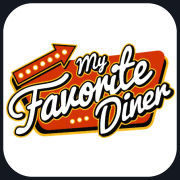
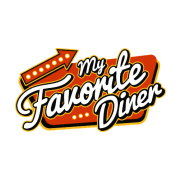
Fix writing a review on a phone, and add the diner's social links
Review form on mobile
  The report was that a review could not be written on a phone. Tapping the
  review box opens the on-screen keyboard over the lower half of the
  screen, and the field that raised it is usually what ends up underneath
  it — the sheet scrolls, so nothing is broken exactly, but it reads as a
  box that cannot be typed into. Both fields now scroll themselves into
  view on focus, after the keyboard's own animation has settled.

  Also took the sticky send button back out. It was added an hour ago to
  keep "Send my review" reachable in a form taller than the sheet, but it
  floated over the review box while you were still writing in it — a worse
  problem than the one it solved. The textarea gives back the height on
  small screens instead.

  Kept from that change: tap targets. The stars were 38px square, under
  every touch guideline, and they are the first thing the sheet asks for;
  they are 48px now, with the close button at 44px.

Facebook and Instagram
  Added instagram_url alongside the existing facebook_url — settings key,
  admin field, and schema.org sameAs, which is what lets the profiles show
  up beside the search result. Both accounts now appear as icons in the
  footer, and only when they have been filled in.

  The two links are set as defaults so they work immediately, with the
  tracking parameters trimmed off: those identify whoever shared the link,
  not the page. Both remain editable in Admin -> Settings.

Favicon
[…]

diff --git a/app/globals.css b/app/globals.css
@@ -1143,6 +1143,23 @@
   .foot ul{list-style:none;display:grid;gap:11px}
   .foot li,.foot li a{font-size:14.5px;color:var(--text-soft);transition:color .25s}
   .foot li a:hover{color:var(--yellow)}
+/* ---- the diner's own accounts, in the footer ---- */
+  .social{display:flex;gap:12px;margin-top:20px;list-style:none;padding:0}
+  .social a{
+    display:flex;align-items:center;justify-content:center;
+    width:44px;height:44px;border-radius:50%;
+    border:2px solid rgba(255,244,224,.4);
+    transition:background .2s,border-color .2s,transform .2s var(--ease);
+  }
+  .social svg{
+    width:20px;height:20px;fill:none;
+    stroke:var(--text);stroke-width:1.9;
+    stroke-linecap:round;stroke-linejoin:round;
+  }
+  .social a:hover{background:var(--red);border-color:var(--red);transform:translateY(-2px)}
+  .social a:hover svg{stroke:#fff}
+  .social a:focus-visible{outline:3px solid var(--yellow);outline-offset:3px}
+
   .foot-bot{border-top:1px solid rgba(255,244,224,.12);padding:22px 0;display:flex;
     justify-content:space-between;gap:14px;flex-wrap:wrap;font-size:13px;color:var(--text-soft)}
   .foot-bot .sc{font-family:var(--script);color:var(--yellow);font-size:16px}
@@ -1551,18 +1568,13 @@
 
     /* The form is taller than the sheet it sits in — measured at 735px of
        content in a 604px box, and worse once the on-screen keyboard opens.
-       That put "Send my review" below the fold with nothing to suggest it
-       was there. Sticking it to the foot keeps the way out in sight while
-       the rest is filled in.
-
-       The cream ring is a cushion: without it the form scrolls visibly
-       through the gaps either side of the rounded button. */
-    .sheet-form .btn{
-      position:sticky;bottom:0;z-index:2;
-      box-shadow:0 6px 0 var(--red-dark),
-                 0 14px 30px -12px rgba(226,59,46,.8),
-                 0 0 0 14px var(--cream);
-    }
+       A sticky send button was tried here and taken out again: it floated
+       over the review box while you were still writing in it, which is a
+       worse problem than the one it solved. The textarea gives back the
+       height instead, and the fields scroll themselves into view on focus
+       (see ReviewForm) so the keyboard cannot sit on top of them. */
+    .sheet-form textarea{min-height:92px}
+    .club-sheet{padding-top:26px}
   }
 
 

diff --git a/components/site/Footer.tsx b/components/site/Footer.tsx
@@ -17,6 +17,48 @@ export default function Footer({ settings }: { settings: Settings }) {
               wagyu burgers, all-day breakfast, pasta, cocktails and ice-cold
               beer.
             </p>
+
+            {/* Only the accounts that have been filled in. An icon linking
+                nowhere is worse than one fewer icon. */}
+            {settings.facebook_url || settings.instagram_url ? (
+              <ul className="social">
+                {settings.facebook_url ? (
+                  <li>
+                    <a
+                      href={settings.facebook_url}
+                      target="_blank"
+                      rel="noopener noreferrer"
+                      aria-label="My Favorite Diner on Facebook"
+                    >
+                      {/* Drawn as an outline, like its neighbour and like
+                          every other icon on the site. */}
+                      <svg viewBox="0 0 24 24" aria-hidden="true">
+                        <rect x="3" y="3" width="18" height="18" rx="5" />
+                        <path d="M15.2 8.2h-1.4a2 2 0 0 0-2 2v7.1" />
+                        <path d="M9.9 12.6h4.6" />
+                      </svg>
+                    </a>
+                  </li>
+                ) : null}
+
+                {settings.instagram_url ? (
+                  <li>
+                    <a
+                      href={settings.instagram_url}
+                      target="_blank"
+                      rel="noopener noreferrer"
+                      aria-label="My Favorite Diner on Instagram"
+                    >
+                      <svg viewBox="0 0 24 24" aria-hidden="true">
+                        <rect x="3" y="3" width="18" height="18" rx="5" />
+                        <circle cx="12" cy="12" r="4" />
+                        <circle cx="17.5" cy="6.5" r="1.4" />
+                      </svg>
+                    </a>
+                  </li>
+                ) : null}
+              </ul>
+            ) : null}
           </div>
 
           <div data-fx="up" style={{ ['--d' as string]: '100ms' }}>

diff --git a/components/site/ReviewForm.tsx b/components/site/ReviewForm.tsx
@@ -151,6 +151,25 @@ export default function ReviewForm() {
     requestCloseRef.current = requestClose;
   });
 
+  /**
+   * Keep the field you are typing in above the keyboard.
+   *
+   * On a phone, tapping a field near the bottom of the sheet opens the
+   * on-screen keyboard over the lower half of the screen — and the field
+   * that raised it is often what ends up underneath. The sheet scrolls, so
+   * nothing is broken exactly, but it looks as though the review box cannot
+   * be typed into, which is the report that brought this here.
+   *
+   * The delay is for the keyboard's own animation: scrolling before it has
+   * finished opening measures against a viewport that is about to change.
+   */
+  function keepInView(e: React.FocusEvent<HTMLElement>) {
+    const field = e.currentTarget;
+    setTimeout(() => {
+      field.scrollIntoView({ block: 'center', behavior: 'smooth' });
+    }, 300);
+  }
+
   useEffect(() => {
     if (!open) return;
 
@@ -425,6 +444,7 @@ export default function ReviewForm() {
                     aria-invalid={errs.author ? true : undefined}
                     aria-describedby={errs.author ? 'rev-name-err' : undefined}
                     value={author}
+                    onFocus={keepInView}
                     onChange={(e) => setAuthor(e.target.value)}
                   />
                   {errs.author ? (
@@ -447,6 +467,7 @@ export default function ReviewForm() {
                       errs.quote ? 'rev-quote-err rev-quote-help' : 'rev-quote-help'
                     }
                     value={quote}
+                    onFocus={keepInView}
                     onChange={(e) => setQuote(e.target.value)}
                   />
 

diff --git a/lib/fallback-data.ts b/lib/fallback-data.ts
@@ -35,7 +35,10 @@ export const FALLBACK_REVIEW: Review = {
 export const FALLBACK_SETTINGS: Settings = {
   phone: '',
   email: '',
-  facebook_url: '',
+  /* The diner's own accounts. Tracking parameters trimmed off the shared
+     links — they identify whoever did the sharing, not the page. */
+  facebook_url: 'https://www.facebook.com/share/14k2USxexJm/',
+  instagram_url: 'https://www.instagram.com/myfav.diner',
   hours: 'Open every day — add your real opening times',
   /* Weekday numbers, Sunday is 0. Empty means open all week, which is what
      the booking calendar assumes until Settings says otherwise. */

diff --git a/lib/seo.ts b/lib/seo.ts
@@ -111,7 +111,13 @@ export function restaurantJsonLd(settings: Record<string, string>) {
   if (settings.phone) data.telephone = settings.phone;
   if (settings.email) data.email = settings.email;
 
-  const sameAs = [SITE.mapsUrl, settings.facebook_url].filter(Boolean);
+  // sameAs is how Google ties the site to the diner's own accounts, which
+  // is what lets the profiles show up beside the search result.
+  const sameAs = [
+    SITE.mapsUrl,
+    settings.facebook_url,
+    settings.instagram_url,
+  ].filter(Boolean);
   if (sameAs.length) data.sameAs = sameAs;
 
   return data;

diff --git a/components/admin/SettingsForm.tsx b/components/admin/SettingsForm.tsx
@@ -28,6 +28,7 @@ const GROUPS: { title: string; fields: Field[] }[] = [
       { key: 'phone', label: 'Phone number', placeholder: '038 123 4567' },
       { key: 'email', label: 'Email address', placeholder: 'hello@example.com' },
       { key: 'facebook_url', label: 'Facebook page', placeholder: 'https://facebook.com/…' },
+      { key: 'instagram_url', label: 'Instagram', placeholder: 'https://instagram.com/…' },
     ],
   },
   {

diff --git a/lib/validation.ts b/lib/validation.ts
@@ -47,6 +47,7 @@ export const SETTING_KEYS: string[] = [
   'phone',
   'email',
   'facebook_url',
+  'instagram_url',
   'address_line1',
   'address_line2',
   'hours',

diff --git a/README.md b/README.md
@@ -689,9 +689,16 @@ emails.
 **Typefaces:** Kaushan Script (logo), Alfa Slab One (headings), Anton
 (labels and numbers), Work Sans (body).
 
-**The favicon** is the logo, shown the way the navbar shows it:
-`public/logo-mark.png` centred on the white pill with the ink border round
-it.
+**The favicon** is the logo, carried the way the navbar carries it:
+`public/logo-mark.png` on white, with no border of its own — the outline in
+the header belongs to the nav bar, not to the mark inside it.
+
+The white is not a style choice. The script lettering in `logo-mark.png` is
+knocked out rather than painted — some 15,000 transparent pixels inside the
+sign — so the words are whatever shows through from behind. On a transparent
+icon over a dark browser tab they vanish entirely. Run
+`node scripts/generate-icons.mjs proof.png` and the proof sheet shows each
+size on a light strip and a dark one, which is how that was caught.
 
 `scripts/generate-icons.mjs` builds it — it decodes the logo, resizes it and
 composes `app/icon.png` (256px) and `app/apple-icon.png` (180px, square and
